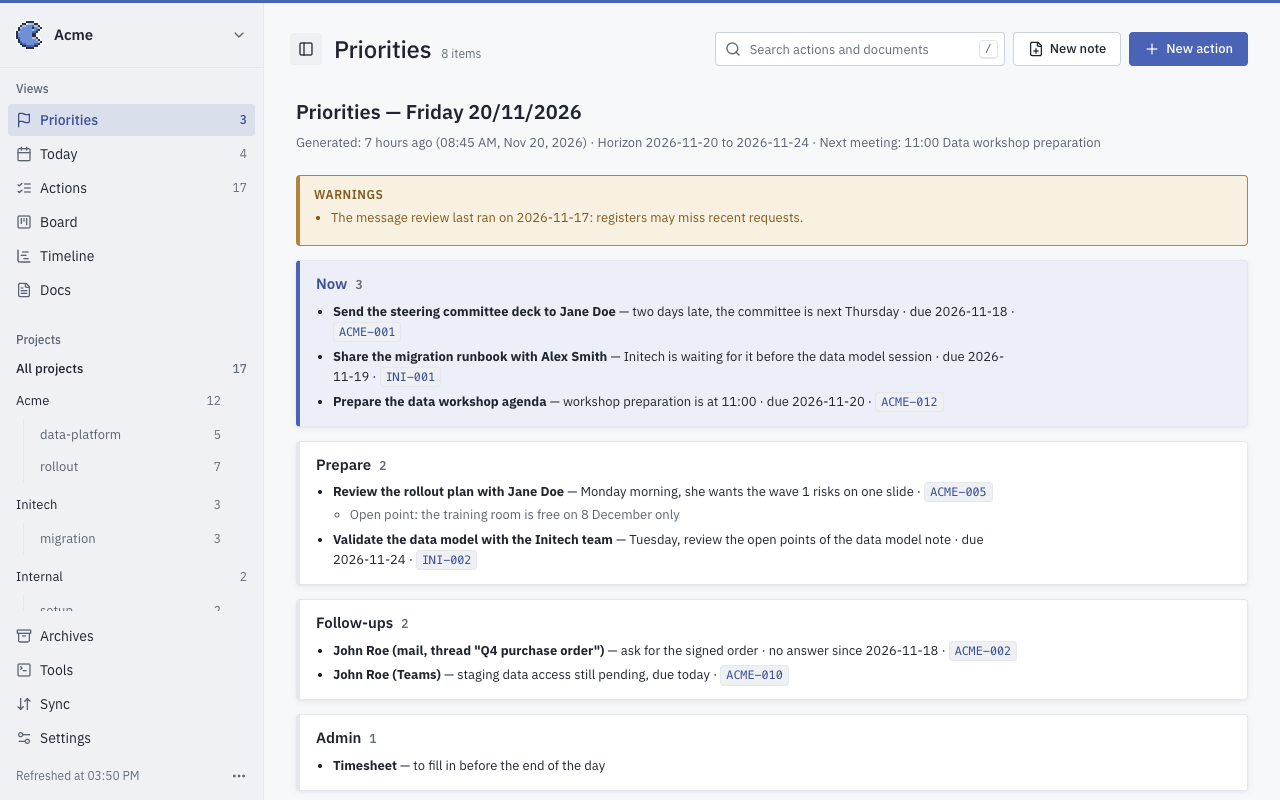
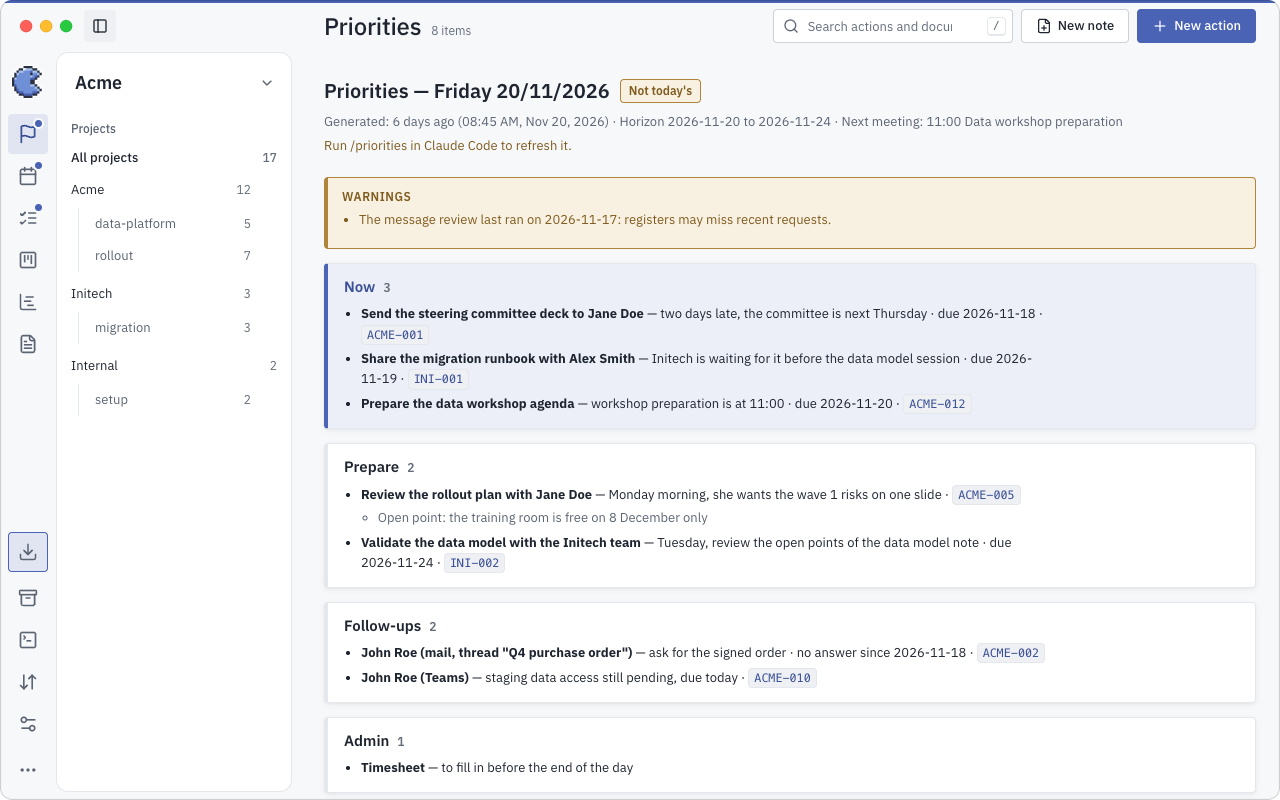
docs: rewrite the Corvus README and retake the screenshots
The guide of the local app is rewritten around Corvus: what it does, how
its parts fit together (with a diagram), installation and launch on each
system, then a tour of the views. The screenshots are retaken from the
demo brains in the macOS window layout, with a new one of the Sync view.
The root README, docs/BRAINS.md, docs/SETUP.md and tools/README.md use
the new name.

diff --git a/tools/tasks-web/README.md b/tools/tasks-web/README.md
@@ -1,36 +1,73 @@
 # Corvus
 
-Corvus, a local app (a native window, or a browser tab) that reads and edits the action registers and the notes of your brains, without an agent. It runs on your own computer only (`127.0.0.1`), stores no copy of your data and loads no network resource: no CDN, nothing fetched from the Internet. Back to the [root README](../../README.md).
+Corvus is the local app of Work: it shows the actions and the notes of your brains, and lets you change them without an agent. It opens in a window of its own on macOS, Windows and Linux, or in a browser tab. Everything stays on your computer: the server listens on `127.0.0.1` only, keeps no copy of your data and writes every change into the brain's own Markdown files, which your agents read too. Back to the [root README](../../README.md).
 
-![Today view](../../docs/images/tasks-web-today.png)
+![Corvus on macOS: the Today view, with the rail of views and the project card](../../docs/images/tasks-web-today.png)
 
-## Launch
+This guide first lists what Corvus does, then shows how its parts fit together, how to install it and how to launch it. It ends with a tour of the views and the keyboard shortcuts.
 
-From the root of Work:
+## What it does
+
+Corvus brings the registers of every brain into one window, so that the day's work can be read and updated in a few clicks.
+
+- Today gathers what is overdue, due today, in progress, waiting on someone else and due in the week ahead.
+- Every action can be changed in place (status, owner, due date, priority, subtasks, notes), and every change can be undone.
+- The Board, the Timeline and the Docs view show the same actions as columns, as dates and next to the notes of each project.
+- One search field looks through the actions and every Markdown document of the brain.
+- A selector switches between your brains without restarting anything, and each brain keeps its own colour and logo.
+- Sync saves and sends the changes of each brain, and brings in the changes made on another computer.
+- The sidebar and the detail panel can be resized, and the page follows the light or dark setting of the system.
+
+## How it works
+
+The window only displays a page. A small server on your computer reads the brains and writes the changes, and Sync is the only part that talks to the network.
+
+```mermaid
+flowchart LR
+  W["Corvus window<br/>or a browser tab"] -- "HTTP on 127.0.0.1:8765" --> S["Local server<br/>tasks-web.py"]
+  S -- "Reads and writes<br/>through action.py" --> B["Brains<br/>Markdown and Git"]
+  B -- "Sync: save, send,<br/>check, bring in" --> R["Each brain's<br/>online copy"]
+```
+
+The diagram shows why Corvus and your agents never disagree: both go through the same files and the same `action.py` rules, and a brain only leaves the computer when you ask Sync to send it. The page itself loads nothing from the Internet (no CDN, no outside font or script). Two features use the network: Sync, with each brain's own Git remote, and Update, which looks for a newer release of Work.
+
+## Install and launch
+
+Corvus can be installed as an app or started from a terminal; both open the same page.
+
+**As an app.** Run this once from the root of Work:
+
+```sh
+uv run tools/tasks-web/install-app.py
+```
+
+It adds a **Corvus** entry: an app to drag to the Dock on macOS, a Start Menu shortcut on Windows, an entry of the applications menu on Linux. A click starts the local server when it is not running and opens the page. On macOS and Windows it opens in a native window (pywebview, downloaded once by `uv` at install). On Linux, and whenever the native window cannot open, it opens in a Chrome, Chromium or Edge app window, and failing that in the default browser. Clicking the icon again brings back the open window. **Quit Corvus…**, in the **⋯** menu, stops the server and closes the window; closing the window alone leaves the server running, so the next launch is immediate.
+
+**From a terminal.** From the root of Work:
 
 ```sh
 uv run tools/tasks-web/tasks-web.py
 ```
 
-Then open `http://127.0.0.1:8765/` (`--port N` to choose another port, `Ctrl+C` to stop). `uv run` installs the one dependency on its own. `--brain <folder>` picks the default brain and `WORK_DIR` another Work root.
-
-To start it from the Dock, the Start Menu or the applications menu instead, run `uv run tools/tasks-web/install-app.py` once: it adds a **Corvus** entry that starts the server when needed and opens the page in a native window of its own, else in a Chrome app window or the browser (see [Install the app](REFERENCE.md#install-the-app)).
+Then open `http://127.0.0.1:8765/` (`--port N` for another port, `Ctrl+C` to stop). `--brain <folder>` picks the default brain and `WORK_DIR` another Work root. The details of each system are in [Install the app](REFERENCE.md#install-the-app).
 
 ## Tour
 
+The tour follows the sidebar from top to bottom: the views of the day, then the brains, Sync and the window itself.
+
 ### Today
 
-The opening view: your overdue actions, those due today, those in progress, the follow-ups to make with others and what you wait on, then the week ahead. Each action appears once, in the first section that fits.
+The opening view lists your overdue actions, those due today, those in progress, the follow-ups to make with others and what you wait on, then the week ahead. Each action appears once, in the first section that fits.
 
 ### Priorities
 
-The ranking written by the `/priorities` agent skill for the current brain: what to do now, what to prepare, conflicts, follow-ups. An action ID in an item opens that action. Follow-ups carry collapsible drafts of the message, with a button to copy it.
+The ranking written by the `/priorities` agent skill for the current brain: what to do now, what to prepare, the conflicts and the follow-ups. An action ID in an item opens that action, and each follow-up carries a draft of the message with a button to copy it.
 
-![Priorities view](../../docs/images/tasks-web-priorities.png)
+![The Priorities view](../../docs/images/tasks-web-priorities.png)
 
 ### Actions and the detail panel
 
-Actions are listed by project and group, each with its progress and overdue count. A click on the status or the due date changes it in place; a click on a row opens the detail panel with the fields, the subtasks and the history of notes. Every write goes through `action.py` and can be undone.
+Actions are listed by project and group, each with its progress and its overdue count. A click on the status or the due date changes it in place; a click on a row opens the detail panel with the fields, the subtasks and the history of notes. Every write goes through `action.py` and can be undone. Dragging the left edge of the panel widens it.
 
 ![Actions grouped by project](../../docs/images/tasks-web-actions.png)
 
@@ -38,43 +75,49 @@ Actions are listed by project and group, each with its progress and overdue coun
 
 ### Board
 
-Four columns, To do, In progress, Waiting and Recently done. Drag a card to change its status. It shows your own cards unless you switch to Everyone.
+Four columns, To do, In progress, Waiting and Recently done. Dragging a card changes its status. The board shows your own cards unless you switch to Everyone.
 
-![Board](../../docs/images/tasks-web-board.png)
+![The Board](../../docs/images/tasks-web-board.png)
 
 ### Timeline
 
-Actions with a deadline on a chronological frieze (2 weeks, 6 weeks or a quarter), one lane per project, overdue first. Those without a deadline wait in a tray below: drag one onto a day to plan it.
+The actions with a deadline sit on a chronological frieze (2 weeks, 6 weeks or a quarter), one lane per project, overdue first. Those without a deadline wait in a tray below: dropping one on a day plans it.
 
-![Timeline](../../docs/images/tasks-web-timeline.png)
+![The Timeline](../../docs/images/tasks-web-timeline.png)
 
 ### Docs and search
 
 The notes, sources, workstreams, journal and project pages of the brain, with a reader and a Markdown editor for working notes. The search field, in every view, looks through the actions and every Markdown document at once.
 
-![Docs with a note open](../../docs/images/tasks-web-docs.png)
+![Docs, with a note open](../../docs/images/tasks-web-docs.png)
 
 ### Brains
 
-The button at the top of the sidebar switches brain without restarting the server; each brain has its own colour and pixel logo. **Add brain** creates a new private brain from the seed, with its own Git repository. A sideways swipe over the sidebar moves to the next brain.
+The brain's name at the top of the sidebar opens the brain menu: it switches brain without restarting the server, and **Add brain** creates a new private brain with its own Git repository. Each brain has its own colour and pixel logo, so the brain being edited is always visible. A sideways swipe over the sidebar moves to the next brain.
 
 ![The brain menu](../../docs/images/tasks-web-brain-menu.png)
 
-### Icon rail and dark mode
+### Sync
 
-The `[` key folds the sidebar to a rail of icons, each named in a tooltip. The page follows the light or dark setting of the system.
+Each brain is a Git repository. The Sync view shows one card per brain and says what is waiting: notes to save and send, or changes made on another computer. **Save and send** records the changed notes and sends them to the brain's online copy, through the brain's own Git hooks. Corvus checks the online copies when it opens and every ten minutes; when a brain is behind, its card and the sidebar offer **Sync**, which brings the changes in as a fast-forward only, never with a merge commit or a rewrite of history.
 
-![The sidebar folded to the icon rail, in dark mode](../../docs/images/tasks-web-rail-dark.png)
+![The Sync view, with a brain to bring up to date](../../docs/images/tasks-web-sync.png)
+
+### Sidebar, window and dark mode
+
+On the left, a rail holds the views and, at the bottom, Archives, Tools, Sync and Settings. Next to it, the project card lists the projects of the brain; its edge can be dragged to widen it. The sidebar button, or the `[` key, folds the card away; the pointer on a view then shows the card over the page, with that view named above the projects, and a project chosen there opens in that view. On macOS the window has no separate title bar: its three buttons sit at the top of the rail. The page follows the light or dark setting of the system.
+
+![The card folded away, shown again over the page from the Timeline icon, in dark mode](../../docs/images/tasks-web-rail-dark.png)
 
 ### Update
 
-When a new release of Work exists, an **Update** button appears in the sidebar. The dialog shows the release notes and, once confirmed, a step bar through the install. Archives, Tools, Sync (save and send a brain's changes, check its online copy and pull what others sent) and Settings sit below it; see the reference.
+When a newer release of Work exists, an **Update** button appears in the sidebar. The dialog shows the release notes and, once confirmed, a step bar through the install; the brains are never touched.
 
 ![The Update dialog with its step bar](../../docs/images/tasks-web-update.png)
 
 ## Keyboard shortcuts
 
-The single keys do not apply while typing in a field; `?` shows their help, and the tooltips recall them.
+The single keys do not apply while typing in a field. `?` shows their help, and the tooltips recall them.
 
 | Key | Effect |
 |---|---|
@@ -90,12 +133,18 @@ The single keys do not apply while typing in a field; `?` shows their help, and 
 | Esc | Close the menu, the drawer or the panel; in the search field, clear it and go back to the view it left |
 | ⌘ Enter | Save the panel now, create the action, or save the note being edited |
 | ⌘ Z | Undo the last write |
-| `[` | Collapse the sidebar to its icons, or expand it (the drawer, under 900 px) |
+| `[` | Fold the project card or the sidebar, or open it again (the drawer, under 900 px) |
 | `?` | Shortcuts help |
 | ⌘ B, I, U, K, ⇧ ⌘ X | In a note being written: bold, italic, underline, link, strikethrough |
 
-In a list, only the selected row (otherwise the first one) is in the tab order: Tab goes through its buttons, `j` and `k` move to the others.
+In a list, only the selected row (otherwise the first one) is in the tab order: Tab goes through its buttons, and `j` and `k` move to the others.
 
 ## Reference
 
-[`REFERENCE.md`](REFERENCE.md) holds the rest: [install the app](REFERENCE.md#install-the-app), [layout](REFERENCE.md#layout), the views and their routes ([Priorities](REFERENCE.md#priorities), [Today](REFERENCE.md#today), [Actions](REFERENCE.md#actions-and-detail-panel), [Board](REFERENCE.md#board), [Timeline](REFERENCE.md#timeline), [Groups](REFERENCE.md#groups), [Docs and Search](REFERENCE.md#docs-and-search), [Archives](REFERENCE.md#archives), [Tools](REFERENCE.md#tools), [Sync](REFERENCE.md#sync), [Update](REFERENCE.md#update), [Settings](REFERENCE.md#settings)), [several brains](REFERENCE.md#several-brains), the [priorities file format](REFERENCE.md#priorities-file), [data and security](REFERENCE.md#data-and-security) and the [code layout](REFERENCE.md#code-layout).
+[`REFERENCE.md`](REFERENCE.md) holds the details:
+- [Install the app](REFERENCE.md#install-the-app) and the [layout](REFERENCE.md#layout).
+- The views and their routes: [Priorities](REFERENCE.md#priorities), [Today](REFERENCE.md#today), [Actions](REFERENCE.md#actions-and-detail-panel), [Board](REFERENCE.md#board), [Timeline](REFERENCE.md#timeline), [Groups](REFERENCE.md#groups), [Docs and Search](REFERENCE.md#docs-and-search), [Archives](REFERENCE.md#archives), [Tools](REFERENCE.md#tools), [Sync](REFERENCE.md#sync), [Update](REFERENCE.md#update) and [Settings](REFERENCE.md#settings).
+- [Several brains](REFERENCE.md#several-brains).
+- The [priorities file format](REFERENCE.md#priorities-file).
+- [Data and security](REFERENCE.md#data-and-security).
+- The [code layout](REFERENCE.md#code-layout).

diff --git a/README.md b/README.md
@@ -17,9 +17,9 @@
 - Loading whole project files fills the agent's context window.
 - With several clients on one machine, one client's data can end up in another's repository.
 
-Work is a portable `Work/` workspace that fixes this. Memory lives in private Markdown repositories called brains, one per trust boundary. Agents read them through small commands that return only the part a question needs. Git hooks keep the boundaries intact. A local app lets you read and edit the same files without an agent. The repository holds the tools, the shared conventions and the checks. It holds no client data.
+Work is a portable `Work/` workspace that fixes this. Memory lives in private Markdown repositories called brains, one per trust boundary. Agents read them through small commands that return only the part a question needs. Git hooks keep the boundaries intact. A local app, Corvus, lets you read and edit the same files without an agent. The repository holds the tools, the shared conventions and the checks. It holds no client data.
 
-![The Actions app: Today view](docs/images/tasks-web-today.png)
+![Corvus, the local app: the Today view](docs/images/tasks-web-today.png)
 
 ## Features
 
@@ -27,13 +27,13 @@ Work is a portable `Work/` workspace that fixes this. Memory lives in private Ma
 - **Context on demand.** `brain-state.py` loads output, not files: `brief` for where a project stands, `find` for a term or an identifier, `section` for one heading of a page, `person` for someone and what they carry, `due` for late and upcoming actions, `changes` for what moved since a date. Agents never read a register or a project page whole.
 - **Action and decision registers.** `action.py` and `decision.py` write the registers, with length caps (35 words for a history entry, 40 for a timeline entry, 70 for a decision field). A commitment becomes an action only when four tests hold; otherwise it stays in the minutes or message where it was said.
 - **Project archiving.** `brain-state.py archive` moves a finished mission, project or client into an `archive/` folder, rewrites the links, and refuses while an action is still open. An archived project leaves every command and every view. `unarchive` is the exact inverse.
-- **A local Actions app.** `tasks-web.py` serves a browser interface on `127.0.0.1` with the views Today, Actions, Board, Timeline, Docs, Archives, Tools, Sync, Settings, and one search across actions and documents. A selector switches between brains. Sync saves and sends a brain's changed notes through its own Git hooks. It installs as an app on macOS, Windows and Linux (`install-app.py`).
+- **Corvus, a local app.** `tasks-web.py` serves the views Today, Priorities, Actions, Board, Timeline, Docs, Archives, Tools, Sync and Settings on `127.0.0.1`, with one search across actions and documents. A selector switches between brains. Sync saves and sends a brain's changed notes through its own Git hooks, and brings in the changes made on another computer as a fast-forward only. `install-app.py` installs it as an app on macOS, Windows and Linux, in a window of its own.
 - **Guardrails.** Git hooks refuse staged secrets, the names of clients and people known to the other brains, malformed commit messages, dead or cross-brain links, and pushes with the wrong identity, a force push or a remote branch deletion. A Claude Code hook refuses direct `python`, deletions in the artifacts folder, hook bypasses and writes into an `artifacts/` folder not yet linked to the configured one. `preflight-push.py` runs before every push.
 - **Obsidian compatible.** Open `Work/` as the vault. Each brain's `tasks.md` shows the registers as Tasks queries and a kanban, with a form to add an action.
 - **Releases.** Every push to `main` is tested on Linux and released automatically from its Conventional Commits. Machines update to a release only, never to the tip of `main`, and an update never touches the brains.
 
 
-![The sidebar collapsed to its icons, in dark mode](docs/images/tasks-web-rail-dark.png)
+![Corvus in dark mode: the project card shown over the page from the Timeline icon](docs/images/tasks-web-rail-dark.png)
 
 ## How it works
 
@@ -66,10 +66,10 @@ Without `--brain`, a blank brain is created locally from `kit/brain/seed/`. The 
 ## Documentation
 
 - [Setup and maintenance](docs/SETUP.md): layout, new machine (Windows included), another computer, updates, checks.
-- [Brains, skills and tools](docs/BRAINS.md): trust boundaries, skills, repositories, Obsidian, the Actions app.
+- [Brains, skills and tools](docs/BRAINS.md): trust boundaries, skills, repositories, Obsidian, the Corvus app.
 - [`tools/README.md`](tools/README.md): index of every command.
 - [`tools/machine/README.md`](tools/machine/README.md): install, update, hooks and releases.
 - [`tools/machine/GIT-IDENTITY.md`](tools/machine/GIT-IDENTITY.md): Git author and SSH key per trust boundary.
-- [`tools/tasks-web/README.md`](tools/tasks-web/README.md): the Actions app.
+- [`tools/tasks-web/README.md`](tools/tasks-web/README.md): Corvus, the local app.
 - [`kit/brain/AGENTS.md`](kit/brain/AGENTS.md) and [`kit/brain/docs/README.md`](kit/brain/docs/README.md): brain conventions and guides.
 - [`kit/obsidian/README.md`](kit/obsidian/README.md): Obsidian setup.

diff --git a/docs/BRAINS.md b/docs/BRAINS.md
@@ -1,6 +1,6 @@
 # Brains, skills and tools
 
-Brains and their trust boundaries, skills, repositories, Obsidian and the Actions app. Back to the [README](../README.md).
+Brains and their trust boundaries, skills, repositories, Obsidian and Corvus, the local app. Back to the [README](../README.md).
 
 ## Brains and trust boundaries
 
@@ -48,6 +48,6 @@ Outside Obsidian, `uv run tools/brain/action.py board` prints a complete project
 
 Closed actions older than 30 days move to `state/actions-archive-YYYY.md` with `uv run tools/brain/action.py archive` (dry-run) then `--write`; agents run it without asking when the doctor flags them or at the start of a month. See [tools/brain/action.md](../tools/brain/action.md).
 
-## The Actions app
+## Corvus, the local app
 
-Run `uv run tools/tasks-web/tasks-web.py` and open `http://127.0.0.1:8765/`: a sidebar with the views Today, Actions, Board, Timeline, Docs, Archives, Tools, Sync and Settings, a search field in the header that searches the actions and the documents, the **New action** and **New note** buttons, and a selector at the top left that switches between the brains of the Work without a restart. The Sync view shows one card per brain and, after a confirmation, saves its changed notes and sends them to the brain's own online copy, through the brain's Git hooks. An **Update** button appears when a newer release exists. `uv run tools/tasks-web/install-app.py` installs a **Corvus** entry (macOS app, Windows Start Menu shortcut, Linux applications menu) that opens the page in a native window of its own; on macOS, `./tools/tasks-web/build-dock-app.sh` runs the same installer. Both routes read and edit the same Markdown files; details are in [the local task manager guide](../tools/tasks-web/README.md). The server binds only to `127.0.0.1` and publishes nothing by itself: a brain leaves this computer only when you click **Save and send** or **Send** in the Sync view.
+Run `uv run tools/tasks-web/tasks-web.py` and open `http://127.0.0.1:8765/`: a sidebar with the views Today, Actions, Board, Timeline, Docs, Archives, Tools, Sync and Settings, a search field in the header that searches the actions and the documents, the **New action** and **New note** buttons, and a selector at the top left that switches between the brains of the Work without a restart. The Sync view shows one card per brain and, after a confirmation, saves its changed notes and sends them to the brain's own online copy, through the brain's Git hooks. An **Update** button appears when a newer release exists. `uv run tools/tasks-web/install-app.py` installs a **Corvus** entry (macOS app, Windows Start Menu shortcut, Linux applications menu) that opens the page in a window of its own (a native one on macOS and Windows, a Chrome or Edge app window on Linux); on macOS, `./tools/tasks-web/build-dock-app.sh` runs the same installer. Both routes read and edit the same Markdown files; details are in [the local task manager guide](../tools/tasks-web/README.md). The server binds only to `127.0.0.1` and publishes nothing by itself: a brain leaves this computer only when you click **Save and send** or **Send** in the Sync view.

diff --git a/tools/README.md b/tools/README.md
@@ -37,7 +37,7 @@ The tools act on the default brain, or on another brain with `BRAIN_DIR` (`--bra
 | Command | Role | Guide |
 |---|---|---|
 | `uv run tools/tasks-web/tasks-web.py [--port N] [--brain DIR]` | Local web interface for actions (Priorities, Today, Actions, Board, Timeline, Docs, Tools, Sync, and one global search of the actions and the documents) on `http://127.0.0.1:8765/`; a selector at the top left switches between the brains of the workspace without a restart (`?brain=<name>`, `GET /api/brains`; `--brain` sets the default brain); the Tools view runs predefined commands (links, brains, transcripts, actions, repositories); the Sync view saves and sends the changed notes of each brain (one card per brain, a confirmation, then `git add -A`, `git commit` and `git push` of that brain only, every hook running); `tasks-web.py` is the entry point, the code is in the package `tasks-web/tasksweb/` and the page's script in `tasks-web/static/app/` (guide, "Code layout") | [README.md](tasks-web/README.md) |
-| `uv run tools/tasks-web/install-app.py [--dry-run] [--uninstall]` | Installs the "Corvus" launcher of this system, which opens the app in a native window (`window.py`, pywebview), else in a Chrome app window, else in the browser: the macOS app bundle in the artifacts folder (`--replace` moves an existing one, an "Actions Brain" one included, to `archive/` first, nothing is overwritten), a Windows Start Menu shortcut (`--desktop` adds one on the Desktop) or a Linux applications menu entry; `--uninstall` removes only what it wrote | [README.md](tasks-web/README.md) |
+| `uv run tools/tasks-web/install-app.py [--dry-run] [--uninstall]` | Installs the "Corvus" launcher of this system, which opens the app in a native window on macOS and Windows (`window.py`, pywebview), on Linux and as a fallback in a Chrome, Chromium or Edge app window, else in the browser: the macOS app bundle in the artifacts folder (`--replace` moves an existing one, an "Actions Brain" one included, to `archive/` first, nothing is overwritten), a Windows Start Menu shortcut (`--desktop` adds one on the Desktop) or a Linux applications menu entry; `--uninstall` removes only what it wrote | [README.md](tasks-web/README.md) |
 | `uv run --script tools/tasks-web/launch.py` | Launcher run by those entries (macOS, Windows, Linux): opens the page, starting the server on port 8765 first when needed (log and PID in `agents/`), refuses when another program holds the port | [README.md](tasks-web/README.md) |
 | `uv run tools/tasks-web/make-icon.py` | Writes the app icon into `tasks-web/static/` (SVG, PNG, ICO, ICNS) | [README.md](tasks-web/README.md) |
 | `./tools/tasks-web/build-dock-app.sh`, `tools/tasks-web/launcher.sh` | Kept for macOS: the first runs `install-app.py --platform macos`, the second (called by apps built before it) runs `launch.py` | [README.md](tasks-web/README.md) |

diff --git a/docs/SETUP.md b/docs/SETUP.md
@@ -63,7 +63,7 @@ uv run tools/machine/work.py update --check   # is a newer release available, an
 uv run tools/machine/work.py update --apply --to vX.Y.Z   # fast-forward to that release, then run update.sh
 ```
 
-The Update button of the Actions app does the same. The shared conventions, guides, templates, and tools follow; your brains, your configuration, and your local files are not touched. An update is blocked, with its reasons, by local commits, by modified files the release also changes, by a new major version, by a detached HEAD or by a missing upstream.
+The Update button of Corvus does the same. The shared conventions, guides, templates, and tools follow; your brains, your configuration, and your local files are not touched. An update is blocked, with its reasons, by local commits, by modified files the release also changes, by a new major version, by a detached HEAD or by a missing upstream.
 
 ## Move local-paths.json out of Git
 
